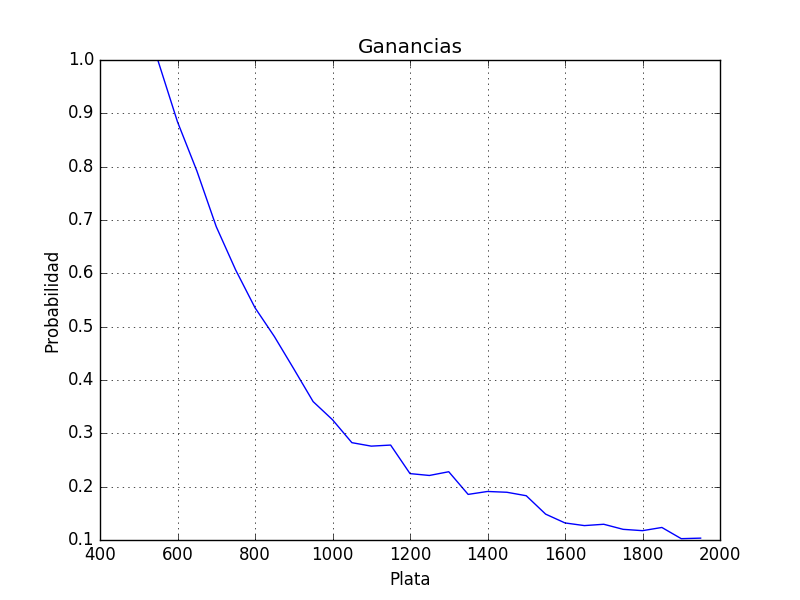
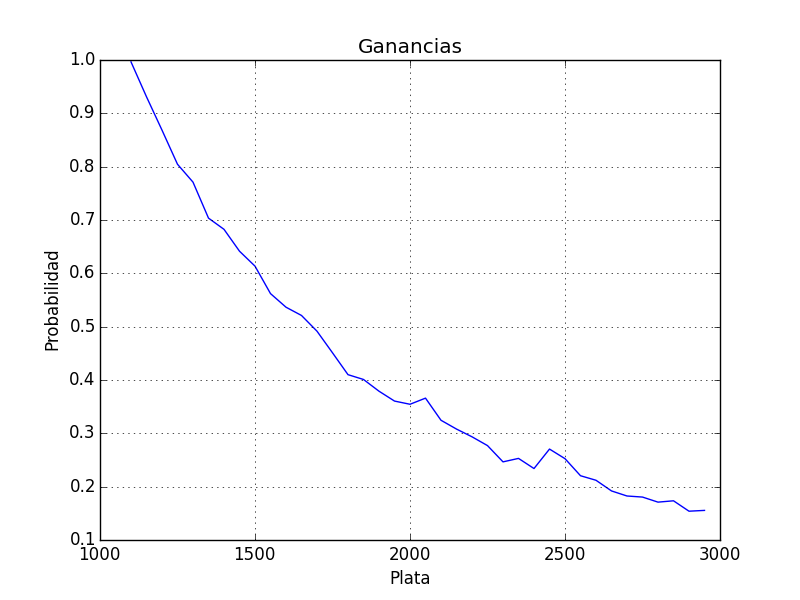
ultimos cambios

diff --git a/probabilidadmartinmacro.py b/probabilidadmartinmacro.py
@@ -1,19 +1,29 @@
 import random
 
+def makro(n):
+    lista = [0,1,3,7,15,32,66,135,270]
+    if n in range(len(lista)):
+        return lista[n]
+    else:
+        return 0
+
 def jugada():
     return random.random() <= 18/37.0
 
 def partida(inicial, final):
     creditos = inicial
     apuesta = 1
+    succ=1
     while True:
         gane = jugada()
         if gane:
+            succ=1
             creditos += apuesta
-            apuesta = 1
+            apuesta = makro(succ)
         else:
+            succ+=1
             creditos -= apuesta
-            apuesta *= 2
+            apuesta = makro(succ)
             if creditos - apuesta < 0:
                 return 0
         if creditos >= final:
@@ -25,12 +35,15 @@ def probabilidad(final):
     
 import matplotlib.pyplot as plt
 import numpy as np
+import scipy.stats as stats
 
 t = range(1100,3000,50)
 s = []
 for i,x in enumerate(t):
     print float(i)/len(t)
     s.append(probabilidad(x))
+fit_alpha, fit_loc, fit_beta=stats.gamma.fit(s)
+print (fit_alpha, fit_loc, fit_beta)
 plt.plot(t, s)
 
 plt.xlabel('Plata')

diff --git a/sucesion.py b/sucesion.py
@@ -1,0 +1,19 @@
+import math
+
+def ff(p):
+    r= math.ceil(p/26.0)
+    if r == p/26.0:
+        r+=1
+    return r
+s=1
+perdidas=0
+n=1
+lista = []
+while s<=1000:
+    lista.append(s)
+    print "Nivel %s = %s" % (n,s)
+    perdidas+=s
+    n+=1
+    s= int(ff(perdidas))
+    
+print lista
